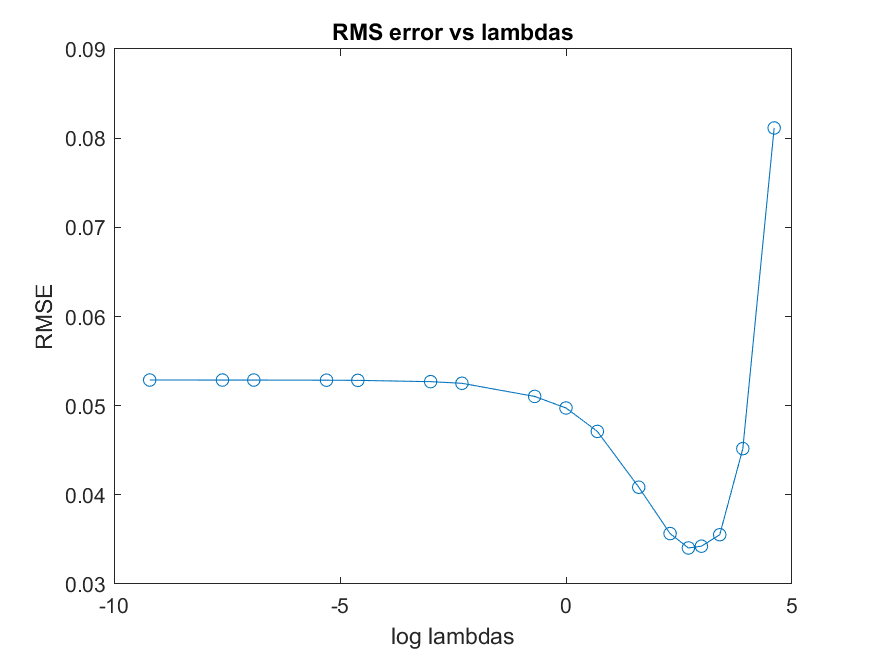
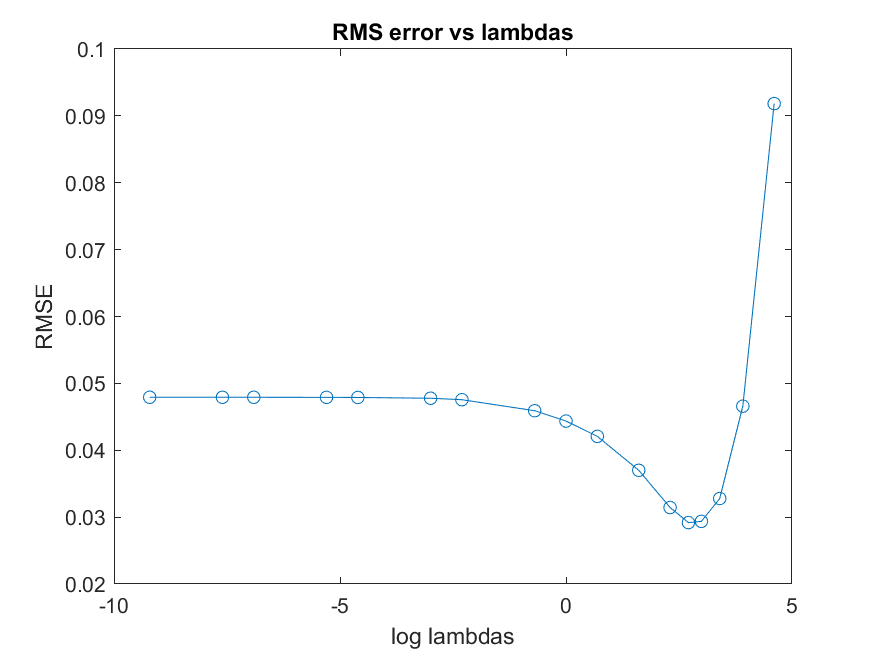
Final?

diff --git a/Assignment-4/Q1/myMainScript.m b/Assignment-4/Q1/myMainScript.m
@@ -1,5 +1,5 @@
 addpath('./l1_ls_matlab');
-rng(0,'twister');
+rng(1,'twister');
 
 %% Generating data
 x = zeros(500,1);
